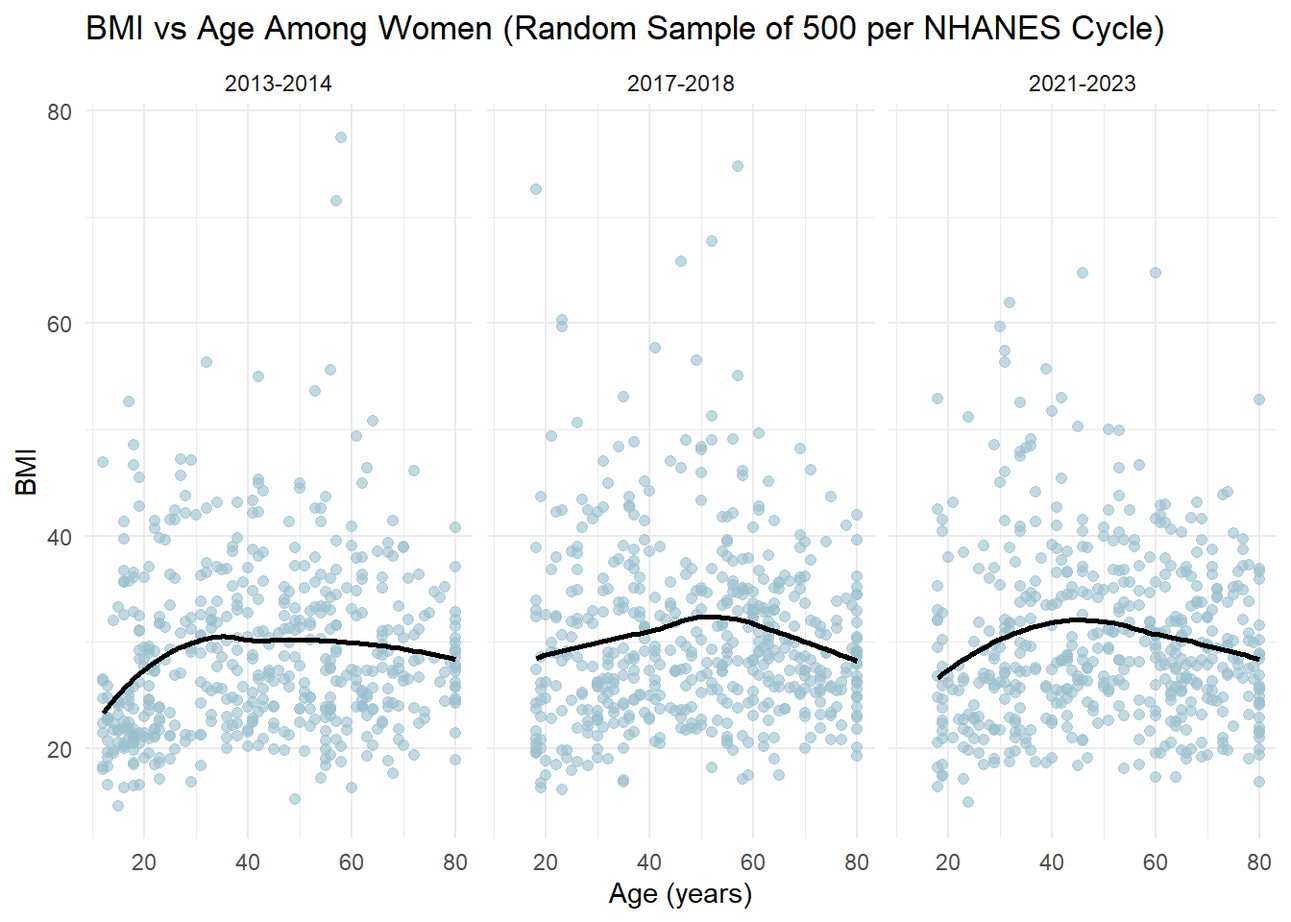
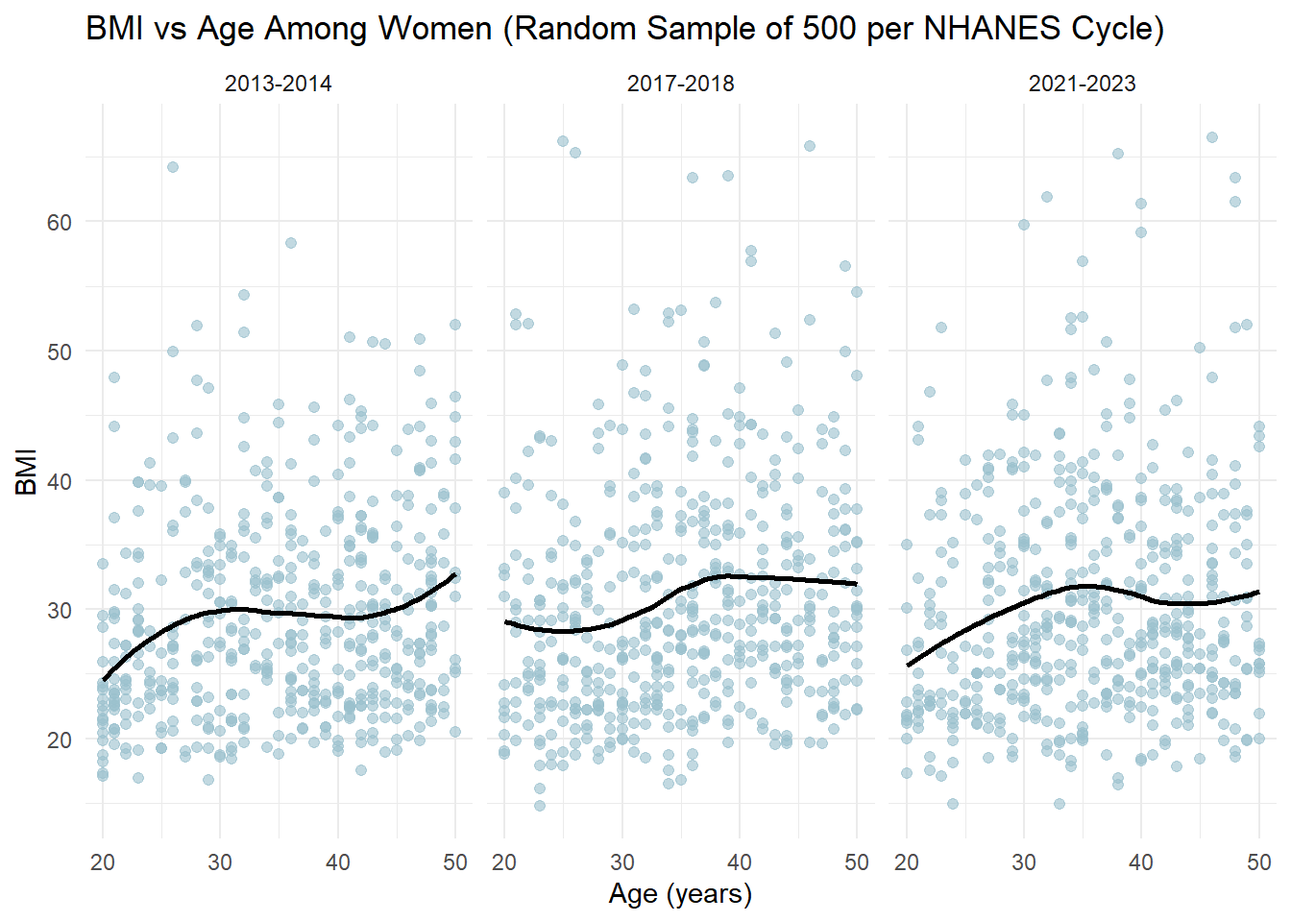
writeup

diff --git a/docs/results.html b/docs/results.html
@@ -213,7 +213,7 @@ pre > code.sourceCode > span > a:first-child::before { text-decoration: underlin
 <span id="cb1-9"><a href="#cb1-9" aria-hidden="true" tabindex="-1"></a>women_brf <span class="ot">&lt;-</span> <span class="fu">read.csv</span>(<span class="st">"women_brf.csv"</span>)</span></code><button title="Copy to Clipboard" class="code-copy-button"><i class="bi"></i></button></pre></div>
 </details>
 </div>
-<p>I started with some more general graphs to get a sense for the distribution of BMI and age groups of the NHANES survey respondents.</p>
+<p>I started with some more general graphs to get a sense for the distribution of BMI and age groups of the NHANES survey respondents. I was very surprised by the wide range of respondents. I didn’t grasp at first the breadth of the survey. I thought this survey was more to guage the adult population but seeing they even conducted portions with infants also helps explain why there is so much missing data, because many questions won’t be applicable to certain portions of the population included.</p>
 <div class="cell">
 <details class="code-fold">
 <summary>Code</summary>
@@ -261,17 +261,25 @@ pre > code.sourceCode > span > a:first-child::before { text-decoration: underlin
 </div>
 </div>
 </div>
+<p>After seeing the age distribution and knowing that I wanted to focus my trend analysis on the adult women respondents, I filtered my data for ages 20-50 and plotted the distribution for BMI from there. BMI has slightly increased over the three survey cycles, which I didn’t find completely surprising but it also didn’t quite line up with what I would have expected given the trends I saw in my later analysis.</p>
 <div class="cell">
 <details class="code-fold">
 <summary>Code</summary>
-<div class="sourceCode cell-code" id="cb4"><pre class="sourceCode r code-with-copy"><code class="sourceCode r"><span id="cb4-1"><a href="#cb4-1" aria-hidden="true" tabindex="-1"></a><span class="fu">ggplot</span>(nhanes_women, <span class="fu">aes</span>(<span class="at">x =</span> bmi, <span class="at">fill =</span> cycle)) <span class="sc">+</span></span>
-<span id="cb4-2"><a href="#cb4-2" aria-hidden="true" tabindex="-1"></a>  <span class="fu">geom_density</span>(<span class="at">alpha =</span> <span class="fl">0.4</span>) <span class="sc">+</span></span>
-<span id="cb4-3"><a href="#cb4-3" aria-hidden="true" tabindex="-1"></a>  <span class="fu">labs</span>(</span>
-<span id="cb4-4"><a href="#cb4-4" aria-hidden="true" tabindex="-1"></a>    <span class="at">title =</span> <span class="st">"BMI Distribution of Women by NHANES Cycle"</span>,</span>
-<span id="cb4-5"><a href="#cb4-5" aria-hidden="true" tabindex="-1"></a>    <span class="at">x =</span> <span class="st">"BMI"</span>,</span>
-<span id="cb4-6"><a href="#cb4-6" aria-hidden="true" tabindex="-1"></a>    <span class="at">y =</span> <span class="st">"Density"</span></span>
-<span id="cb4-7"><a href="#cb4-7" aria-hidden="true" tabindex="-1"></a>  ) <span class="sc">+</span></span>
-<span id="cb4-8"><a href="#cb4-8" aria-hidden="true" tabindex="-1"></a>  <span class="fu">theme_minimal</span>(<span class="at">base_size =</span> <span class="dv">13</span>)</span></code><button title="Copy to Clipboard" class="code-copy-button"><i class="bi"></i></button></pre></div>
+<div class="sourceCode cell-code" id="cb4"><pre class="sourceCode r code-with-copy"><code class="sourceCode r"><span id="cb4-1"><a href="#cb4-1" aria-hidden="true" tabindex="-1"></a>nhanes_adultw <span class="ot">&lt;-</span> nhanes_women <span class="sc">|&gt;</span></span>
+<span id="cb4-2"><a href="#cb4-2" aria-hidden="true" tabindex="-1"></a>  <span class="fu">filter</span>(</span>
+<span id="cb4-3"><a href="#cb4-3" aria-hidden="true" tabindex="-1"></a>    age <span class="sc">&gt;=</span> <span class="dv">20</span>,</span>
+<span id="cb4-4"><a href="#cb4-4" aria-hidden="true" tabindex="-1"></a>    age <span class="sc">&lt;=</span> <span class="dv">50</span></span>
+<span id="cb4-5"><a href="#cb4-5" aria-hidden="true" tabindex="-1"></a>    )</span>
+<span id="cb4-6"><a href="#cb4-6" aria-hidden="true" tabindex="-1"></a></span>
+<span id="cb4-7"><a href="#cb4-7" aria-hidden="true" tabindex="-1"></a></span>
+<span id="cb4-8"><a href="#cb4-8" aria-hidden="true" tabindex="-1"></a><span class="fu">ggplot</span>(nhanes_adultw, <span class="fu">aes</span>(<span class="at">x =</span> bmi, <span class="at">fill =</span> cycle)) <span class="sc">+</span></span>
+<span id="cb4-9"><a href="#cb4-9" aria-hidden="true" tabindex="-1"></a>  <span class="fu">geom_density</span>(<span class="at">alpha =</span> <span class="fl">0.4</span>) <span class="sc">+</span></span>
+<span id="cb4-10"><a href="#cb4-10" aria-hidden="true" tabindex="-1"></a>  <span class="fu">labs</span>(</span>
+<span id="cb4-11"><a href="#cb4-11" aria-hidden="true" tabindex="-1"></a>    <span class="at">title =</span> <span class="st">"BMI Distribution of Women by NHANES Cycle"</span>,</span>
+<span id="cb4-12"><a href="#cb4-12" aria-hidden="true" tabindex="-1"></a>    <span class="at">x =</span> <span class="st">"BMI"</span>,</span>
+<span id="cb4-13"><a href="#cb4-13" aria-hidden="true" tabindex="-1"></a>    <span class="at">y =</span> <span class="st">"Density"</span></span>
+<span id="cb4-14"><a href="#cb4-14" aria-hidden="true" tabindex="-1"></a>  ) <span class="sc">+</span></span>
+<span id="cb4-15"><a href="#cb4-15" aria-hidden="true" tabindex="-1"></a>  <span class="fu">theme_minimal</span>(<span class="at">base_size =</span> <span class="dv">13</span>)</span></code><button title="Copy to Clipboard" class="code-copy-button"><i class="bi"></i></button></pre></div>
 </details>
 <div class="cell-output-display">
 <div>
@@ -281,23 +289,40 @@ pre > code.sourceCode > span > a:first-child::before { text-decoration: underlin
 </div>
 </div>
 </div>
+<p>However, when we break out BMI by age group, we actually see that it stays relatively stable across each group. But as women age we see slightly higher BMI and more variability in respondents.</p>
 <div class="cell">
 <details class="code-fold">
 <summary>Code</summary>
-<div class="sourceCode cell-code" id="cb5"><pre class="sourceCode r code-with-copy"><code class="sourceCode r"><span id="cb5-1"><a href="#cb5-1" aria-hidden="true" tabindex="-1"></a><span class="fu">ggplot</span>(nhanes_women, <span class="fu">aes</span>(<span class="at">x =</span> bmi)) <span class="sc">+</span></span>
-<span id="cb5-2"><a href="#cb5-2" aria-hidden="true" tabindex="-1"></a>  <span class="fu">geom_histogram</span>(</span>
-<span id="cb5-3"><a href="#cb5-3" aria-hidden="true" tabindex="-1"></a>    <span class="at">color    =</span> <span class="st">"blue"</span>,</span>
-<span id="cb5-4"><a href="#cb5-4" aria-hidden="true" tabindex="-1"></a>    <span class="at">fill     =</span> <span class="st">"lightblue"</span>,</span>
-<span id="cb5-5"><a href="#cb5-5" aria-hidden="true" tabindex="-1"></a>    <span class="at">binwidth =</span> <span class="dv">2</span>,</span>
-<span id="cb5-6"><a href="#cb5-6" aria-hidden="true" tabindex="-1"></a>    <span class="at">boundary =</span> <span class="dv">0</span></span>
-<span id="cb5-7"><a href="#cb5-7" aria-hidden="true" tabindex="-1"></a>  ) <span class="sc">+</span></span>
-<span id="cb5-8"><a href="#cb5-8" aria-hidden="true" tabindex="-1"></a>  <span class="fu">facet_wrap</span>(<span class="sc">~</span> cycle, <span class="at">ncol =</span> <span class="dv">1</span>) <span class="sc">+</span></span>
-<span id="cb5-9"><a href="#cb5-9" aria-hidden="true" tabindex="-1"></a>  <span class="fu">labs</span>(</span>
-<span id="cb5-10"><a href="#cb5-10" aria-hidden="true" tabindex="-1"></a>    <span class="at">title =</span> <span class="st">"BMI Histogram by NHANES Cycle (Women Only)"</span>,</span>
-<span id="cb5-11"><a href="#cb5-11" aria-hidden="true" tabindex="-1"></a>    <span class="at">x     =</span> <span class="st">"BMI"</span>,</span>
-<span id="cb5-12"><a href="#cb5-12" aria-hidden="true" tabindex="-1"></a>    <span class="at">y     =</span> <span class="st">"Count"</span></span>
-<span id="cb5-13"><a href="#cb5-13" aria-hidden="true" tabindex="-1"></a>  ) <span class="sc">+</span></span>
-<span id="cb5-14"><a href="#cb5-14" aria-hidden="true" tabindex="-1"></a>  <span class="fu">theme_minimal</span>(<span class="at">base_size =</span> <span class="dv">13</span>)</span></code><button title="Copy to Clipboard" class="code-copy-button"><i class="bi"></i></button></pre></div>
+<div class="sourceCode cell-code" id="cb5"><pre class="sourceCode r code-with-copy"><code class="sourceCode r"><span id="cb5-1"><a href="#cb5-1" aria-hidden="true" tabindex="-1"></a>nhanes_agegroups <span class="ot">&lt;-</span> nhanes_adultw <span class="sc">|&gt;</span></span>
+<span id="cb5-2"><a href="#cb5-2" aria-hidden="true" tabindex="-1"></a>  <span class="fu">filter</span>(</span>
+<span id="cb5-3"><a href="#cb5-3" aria-hidden="true" tabindex="-1"></a>    <span class="sc">!</span><span class="fu">is.na</span>(age),</span>
+<span id="cb5-4"><a href="#cb5-4" aria-hidden="true" tabindex="-1"></a>    age <span class="sc">&gt;=</span> <span class="dv">20</span>, age <span class="sc">&lt;=</span> <span class="dv">50</span>,</span>
+<span id="cb5-5"><a href="#cb5-5" aria-hidden="true" tabindex="-1"></a>    <span class="sc">!</span><span class="fu">is.na</span>(sedentary_min_day),</span>
+<span id="cb5-6"><a href="#cb5-6" aria-hidden="true" tabindex="-1"></a>    <span class="sc">!</span><span class="fu">is.na</span>(bmi)</span>
+<span id="cb5-7"><a href="#cb5-7" aria-hidden="true" tabindex="-1"></a>  ) <span class="sc">|&gt;</span></span>
+<span id="cb5-8"><a href="#cb5-8" aria-hidden="true" tabindex="-1"></a>  <span class="fu">mutate</span>(</span>
+<span id="cb5-9"><a href="#cb5-9" aria-hidden="true" tabindex="-1"></a>    <span class="at">age_group =</span> <span class="fu">case_when</span>(</span>
+<span id="cb5-10"><a href="#cb5-10" aria-hidden="true" tabindex="-1"></a>      age <span class="sc">&lt;=</span> <span class="dv">30</span> <span class="sc">~</span> <span class="st">"20–30"</span>,</span>
+<span id="cb5-11"><a href="#cb5-11" aria-hidden="true" tabindex="-1"></a>      age <span class="sc">&lt;=</span> <span class="dv">40</span> <span class="sc">~</span> <span class="st">"31–40"</span>,</span>
+<span id="cb5-12"><a href="#cb5-12" aria-hidden="true" tabindex="-1"></a>      <span class="cn">TRUE</span>      <span class="sc">~</span> <span class="st">"41–50"</span>      </span>
+<span id="cb5-13"><a href="#cb5-13" aria-hidden="true" tabindex="-1"></a>    )</span>
+<span id="cb5-14"><a href="#cb5-14" aria-hidden="true" tabindex="-1"></a>  )</span>
+<span id="cb5-15"><a href="#cb5-15" aria-hidden="true" tabindex="-1"></a></span>
+<span id="cb5-16"><a href="#cb5-16" aria-hidden="true" tabindex="-1"></a></span>
+<span id="cb5-17"><a href="#cb5-17" aria-hidden="true" tabindex="-1"></a><span class="fu">ggplot</span>(nhanes_agegroups, <span class="fu">aes</span>(<span class="at">x =</span> age_group, <span class="at">y =</span> bmi)) <span class="sc">+</span></span>
+<span id="cb5-18"><a href="#cb5-18" aria-hidden="true" tabindex="-1"></a>  <span class="fu">geom_boxplot</span>(<span class="at">fill =</span> <span class="st">"#d3e5ff"</span>, <span class="at">alpha =</span> <span class="fl">0.8</span>, <span class="at">outlier.alpha =</span> <span class="fl">0.5</span>) <span class="sc">+</span></span>
+<span id="cb5-19"><a href="#cb5-19" aria-hidden="true" tabindex="-1"></a>  <span class="fu">facet_wrap</span>(<span class="sc">~</span> cycle) <span class="sc">+</span></span>
+<span id="cb5-20"><a href="#cb5-20" aria-hidden="true" tabindex="-1"></a>  <span class="fu">labs</span>(</span>
+<span id="cb5-21"><a href="#cb5-21" aria-hidden="true" tabindex="-1"></a>    <span class="at">x =</span> <span class="st">"Age Group"</span>,</span>
+<span id="cb5-22"><a href="#cb5-22" aria-hidden="true" tabindex="-1"></a>    <span class="at">y =</span> <span class="st">"BMI"</span>,</span>
+<span id="cb5-23"><a href="#cb5-23" aria-hidden="true" tabindex="-1"></a>    <span class="at">title =</span> <span class="st">"BMI Across Age Groups and NHANES Cycles (Women)"</span></span>
+<span id="cb5-24"><a href="#cb5-24" aria-hidden="true" tabindex="-1"></a>  ) <span class="sc">+</span></span>
+<span id="cb5-25"><a href="#cb5-25" aria-hidden="true" tabindex="-1"></a>  <span class="fu">theme_minimal</span>() <span class="sc">+</span></span>
+<span id="cb5-26"><a href="#cb5-26" aria-hidden="true" tabindex="-1"></a>  <span class="fu">theme</span>(</span>
+<span id="cb5-27"><a href="#cb5-27" aria-hidden="true" tabindex="-1"></a>    <span class="at">plot.title  =</span> <span class="fu">element_text</span>(<span class="at">size =</span> <span class="dv">14</span>, <span class="at">face =</span> <span class="st">"bold"</span>),</span>
+<span id="cb5-28"><a href="#cb5-28" aria-hidden="true" tabindex="-1"></a>    <span class="at">axis.text   =</span> <span class="fu">element_text</span>(<span class="at">size =</span> <span class="dv">11</span>),</span>
+<span id="cb5-29"><a href="#cb5-29" aria-hidden="true" tabindex="-1"></a>    <span class="at">strip.text  =</span> <span class="fu">element_text</span>(<span class="at">size =</span> <span class="dv">11</span>, <span class="at">face =</span> <span class="st">"bold"</span>)</span>
+<span id="cb5-30"><a href="#cb5-30" aria-hidden="true" tabindex="-1"></a>  )</span></code><button title="Copy to Clipboard" class="code-copy-button"><i class="bi"></i></button></pre></div>
 </details>
 <div class="cell-output-display">
 <div>
@@ -307,32 +332,29 @@ pre > code.sourceCode > span > a:first-child::before { text-decoration: underlin
 </div>
 </div>
 </div>
-<p>I then wanted to see if there was any visual relationship between BMI and the age of respondents. Since there were a large number of data points, I selected a sample of 500 to keep the visual clean while still visually seeing the trend, if any. I also added a loess smoother on top of the graph to aid the visualization.</p>
+<p>I wanted to see what this relationship looked like if I expanded the age group back to the original group of respondents. Since there were a large number of data points, I selected a sample of 500 to keep the visual clean while still visually seeing the trend. I also added a loess smoother on top of the graph to aid the visualization. Not surprisingly, we see bmi increase through childhood to adulthood, a slight uptick from 30-50 as seen in the boxplots, then bmi drops off again as women pass the age of 60.</p>
 <div class="cell">
 <details class="code-fold">
 <summary>Code</summary>
 <div class="sourceCode cell-code" id="cb6"><pre class="sourceCode r code-with-copy"><code class="sourceCode r"><span id="cb6-1"><a href="#cb6-1" aria-hidden="true" tabindex="-1"></a><span class="fu">set.seed</span>(<span class="dv">123</span>)  <span class="co"># for reproducibility</span></span>
 <span id="cb6-2"><a href="#cb6-2" aria-hidden="true" tabindex="-1"></a></span>
-<span id="cb6-3"><a href="#cb6-3" aria-hidden="true" tabindex="-1"></a>nhanes_women <span class="ot">&lt;-</span> <span class="fu">read.csv</span>(<span class="st">"nhanes_women.csv"</span>)</span>
-<span id="cb6-4"><a href="#cb6-4" aria-hidden="true" tabindex="-1"></a></span>
-<span id="cb6-5"><a href="#cb6-5" aria-hidden="true" tabindex="-1"></a><span class="co"># Clean + sample 100 points per cycle</span></span>
-<span id="cb6-6"><a href="#cb6-6" aria-hidden="true" tabindex="-1"></a>nhanes_sampled <span class="ot">&lt;-</span> nhanes_women <span class="sc">|&gt;</span></span>
-<span id="cb6-7"><a href="#cb6-7" aria-hidden="true" tabindex="-1"></a>  <span class="fu">filter</span>(<span class="sc">!</span><span class="fu">is.na</span>(age), <span class="sc">!</span><span class="fu">is.na</span>(bmi),<span class="sc">!</span><span class="fu">is.na</span>(sedentary_min_day), age <span class="sc">&gt;</span> <span class="dv">0</span>) <span class="sc">|&gt;</span></span>
-<span id="cb6-8"><a href="#cb6-8" aria-hidden="true" tabindex="-1"></a>  <span class="fu">group_by</span>(cycle) <span class="sc">|&gt;</span></span>
-<span id="cb6-9"><a href="#cb6-9" aria-hidden="true" tabindex="-1"></a>  <span class="fu">slice_sample</span>(<span class="at">n =</span> <span class="dv">500</span>) <span class="sc">|&gt;</span>   </span>
-<span id="cb6-10"><a href="#cb6-10" aria-hidden="true" tabindex="-1"></a>  <span class="fu">ungroup</span>()</span>
-<span id="cb6-11"><a href="#cb6-11" aria-hidden="true" tabindex="-1"></a></span>
-<span id="cb6-12"><a href="#cb6-12" aria-hidden="true" tabindex="-1"></a><span class="co"># Plot: BMI vs Age, faceted by cycle</span></span>
-<span id="cb6-13"><a href="#cb6-13" aria-hidden="true" tabindex="-1"></a><span class="fu">ggplot</span>(nhanes_sampled, <span class="fu">aes</span>(<span class="at">x =</span> age, <span class="at">y =</span> bmi)) <span class="sc">+</span></span>
-<span id="cb6-14"><a href="#cb6-14" aria-hidden="true" tabindex="-1"></a>  <span class="fu">geom_point</span>(<span class="at">alpha =</span> <span class="fl">0.6</span>, <span class="at">size =</span> <span class="fl">1.8</span>, <span class="at">color =</span> <span class="st">"lightblue3"</span>) <span class="sc">+</span></span>
-<span id="cb6-15"><a href="#cb6-15" aria-hidden="true" tabindex="-1"></a>  <span class="fu">geom_smooth</span>(<span class="at">se =</span> <span class="cn">FALSE</span>, <span class="at">method =</span> <span class="st">"loess"</span>, <span class="at">color =</span> <span class="st">"black"</span>) <span class="sc">+</span></span>
-<span id="cb6-16"><a href="#cb6-16" aria-hidden="true" tabindex="-1"></a>  <span class="fu">facet_wrap</span>(<span class="sc">~</span> cycle) <span class="sc">+</span></span>
-<span id="cb6-17"><a href="#cb6-17" aria-hidden="true" tabindex="-1"></a>  <span class="fu">labs</span>(</span>
-<span id="cb6-18"><a href="#cb6-18" aria-hidden="true" tabindex="-1"></a>    <span class="at">x =</span> <span class="st">"Age (years)"</span>,</span>
-<span id="cb6-19"><a href="#cb6-19" aria-hidden="true" tabindex="-1"></a>    <span class="at">y =</span> <span class="st">"BMI"</span>,</span>
-<span id="cb6-20"><a href="#cb6-20" aria-hidden="true" tabindex="-1"></a>    <span class="at">title =</span> <span class="st">"BMI vs Age Among Women (Random Sample of 500 per NHANES Cycle)"</span></span>
-<span id="cb6-21"><a href="#cb6-21" aria-hidden="true" tabindex="-1"></a>  ) <span class="sc">+</span></span>
-<span id="cb6-22"><a href="#cb6-22" aria-hidden="true" tabindex="-1"></a>  <span class="fu">theme_minimal</span>()</span></code><button title="Copy to Clipboard" class="code-copy-button"><i class="bi"></i></button></pre></div>
+<span id="cb6-3"><a href="#cb6-3" aria-hidden="true" tabindex="-1"></a><span class="co"># Clean + sample 100 points per cycle</span></span>
+<span id="cb6-4"><a href="#cb6-4" aria-hidden="true" tabindex="-1"></a>nhanes_sampled <span class="ot">&lt;-</span> nhanes_agegroups <span class="sc">|&gt;</span></span>
+<span id="cb6-5"><a href="#cb6-5" aria-hidden="true" tabindex="-1"></a>  <span class="fu">group_by</span>(cycle) <span class="sc">|&gt;</span></span>
+<span id="cb6-6"><a href="#cb6-6" aria-hidden="true" tabindex="-1"></a>  <span class="fu">slice_sample</span>(<span class="at">n =</span> <span class="dv">500</span>) <span class="sc">|&gt;</span>   </span>
+<span id="cb6-7"><a href="#cb6-7" aria-hidden="true" tabindex="-1"></a>  <span class="fu">ungroup</span>()</span>
+<span id="cb6-8"><a href="#cb6-8" aria-hidden="true" tabindex="-1"></a></span>
+<span id="cb6-9"><a href="#cb6-9" aria-hidden="true" tabindex="-1"></a><span class="co"># Plot: BMI vs Age, faceted by cycle</span></span>
+<span id="cb6-10"><a href="#cb6-10" aria-hidden="true" tabindex="-1"></a><span class="fu">ggplot</span>(nhanes_sampled, <span class="fu">aes</span>(<span class="at">x =</span> age, <span class="at">y =</span> bmi)) <span class="sc">+</span></span>
+<span id="cb6-11"><a href="#cb6-11" aria-hidden="true" tabindex="-1"></a>  <span class="fu">geom_point</span>(<span class="at">alpha =</span> <span class="fl">0.6</span>, <span class="at">size =</span> <span class="fl">1.8</span>, <span class="at">color =</span> <span class="st">"lightblue3"</span>) <span class="sc">+</span></span>
+<span id="cb6-12"><a href="#cb6-12" aria-hidden="true" tabindex="-1"></a>  <span class="fu">geom_smooth</span>(<span class="at">se =</span> <span class="cn">FALSE</span>, <span class="at">method =</span> <span class="st">"loess"</span>, <span class="at">color =</span> <span class="st">"black"</span>) <span class="sc">+</span></span>
+<span id="cb6-13"><a href="#cb6-13" aria-hidden="true" tabindex="-1"></a>  <span class="fu">facet_wrap</span>(<span class="sc">~</span> cycle) <span class="sc">+</span></span>
+<span id="cb6-14"><a href="#cb6-14" aria-hidden="true" tabindex="-1"></a>  <span class="fu">labs</span>(</span>
+<span id="cb6-15"><a href="#cb6-15" aria-hidden="true" tabindex="-1"></a>    <span class="at">x =</span> <span class="st">"Age (years)"</span>,</span>
+<span id="cb6-16"><a href="#cb6-16" aria-hidden="true" tabindex="-1"></a>    <span class="at">y =</span> <span class="st">"BMI"</span>,</span>
+<span id="cb6-17"><a href="#cb6-17" aria-hidden="true" tabindex="-1"></a>    <span class="at">title =</span> <span class="st">"BMI vs Age Among Women (Random Sample of 500 per NHANES Cycle)"</span></span>
+<span id="cb6-18"><a href="#cb6-18" aria-hidden="true" tabindex="-1"></a>  ) <span class="sc">+</span></span>
+<span id="cb6-19"><a href="#cb6-19" aria-hidden="true" tabindex="-1"></a>  <span class="fu">theme_minimal</span>()</span></code><button title="Copy to Clipboard" class="code-copy-button"><i class="bi"></i></button></pre></div>
 </details>
 <div class="cell-output-display">
 <div>
@@ -363,7 +385,7 @@ pre > code.sourceCode > span > a:first-child::before { text-decoration: underlin
 <div class="cell">
 <details class="code-fold">
 <summary>Code</summary>
-<div class="sourceCode cell-code" id="cb8"><pre class="sourceCode r code-with-copy"><code class="sourceCode r"><span id="cb8-1"><a href="#cb8-1" aria-hidden="true" tabindex="-1"></a><span class="fu">ggplot</span>(nhanes_women,</span>
+<div class="sourceCode cell-code" id="cb8"><pre class="sourceCode r code-with-copy"><code class="sourceCode r"><span id="cb8-1"><a href="#cb8-1" aria-hidden="true" tabindex="-1"></a><span class="fu">ggplot</span>(nhanes_agegroups,</span>
 <span id="cb8-2"><a href="#cb8-2" aria-hidden="true" tabindex="-1"></a>       <span class="fu">aes</span>(<span class="at">x =</span> sedentary_min_day,</span>
 <span id="cb8-3"><a href="#cb8-3" aria-hidden="true" tabindex="-1"></a>           <span class="at">y =</span> bmi)) <span class="sc">+</span></span>
 <span id="cb8-4"><a href="#cb8-4" aria-hidden="true" tabindex="-1"></a>  <span class="fu">geom_bin2d</span>() <span class="sc">+</span></span>
@@ -388,30 +410,20 @@ pre > code.sourceCode > span > a:first-child::before { text-decoration: underlin
 <div class="cell">
 <details class="code-fold">
 <summary>Code</summary>
-<div class="sourceCode cell-code" id="cb9"><pre class="sourceCode r code-with-copy"><code class="sourceCode r"><span id="cb9-1"><a href="#cb9-1" aria-hidden="true" tabindex="-1"></a>nhanes_clean <span class="ot">&lt;-</span> nhanes_women <span class="sc">|&gt;</span></span>
-<span id="cb9-2"><a href="#cb9-2" aria-hidden="true" tabindex="-1"></a>  <span class="fu">filter</span>(<span class="sc">!</span><span class="fu">is.na</span>(age), <span class="sc">!</span><span class="fu">is.na</span>(sedentary_min_day), age <span class="sc">&gt;</span> <span class="dv">0</span>) <span class="sc">|&gt;</span></span>
-<span id="cb9-3"><a href="#cb9-3" aria-hidden="true" tabindex="-1"></a>  <span class="fu">mutate</span>(</span>
-<span id="cb9-4"><a href="#cb9-4" aria-hidden="true" tabindex="-1"></a>    <span class="at">age_group =</span> <span class="fu">case_when</span>(</span>
-<span id="cb9-5"><a href="#cb9-5" aria-hidden="true" tabindex="-1"></a>      age <span class="sc">&lt;</span> <span class="dv">20</span> <span class="sc">~</span> <span class="st">"0–19"</span>,</span>
-<span id="cb9-6"><a href="#cb9-6" aria-hidden="true" tabindex="-1"></a>      age <span class="sc">&lt;</span> <span class="dv">40</span> <span class="sc">~</span> <span class="st">"20–39"</span>,</span>
-<span id="cb9-7"><a href="#cb9-7" aria-hidden="true" tabindex="-1"></a>      age <span class="sc">&lt;</span> <span class="dv">60</span> <span class="sc">~</span> <span class="st">"40–59"</span>,</span>
-<span id="cb9-8"><a href="#cb9-8" aria-hidden="true" tabindex="-1"></a>      <span class="cn">TRUE</span>     <span class="sc">~</span> <span class="st">"60+"</span></span>
-<span id="cb9-9"><a href="#cb9-9" aria-hidden="true" tabindex="-1"></a>    )</span>
-<span id="cb9-10"><a href="#cb9-10" aria-hidden="true" tabindex="-1"></a>  )</span>
-<span id="cb9-11"><a href="#cb9-11" aria-hidden="true" tabindex="-1"></a></span>
-<span id="cb9-12"><a href="#cb9-12" aria-hidden="true" tabindex="-1"></a><span class="co"># Boxplot of sedentary minutes by age group</span></span>
-<span id="cb9-13"><a href="#cb9-13" aria-hidden="true" tabindex="-1"></a><span class="fu">ggplot</span>(nhanes_clean, <span class="fu">aes</span>(<span class="at">x =</span> age_group, <span class="at">y =</span> sedentary_min_day)) <span class="sc">+</span></span>
-<span id="cb9-14"><a href="#cb9-14" aria-hidden="true" tabindex="-1"></a>  <span class="fu">geom_boxplot</span>(<span class="at">fill =</span> <span class="st">"#d3e5ff"</span>, <span class="at">alpha =</span> <span class="fl">0.8</span>, <span class="at">outlier.alpha =</span> <span class="fl">0.5</span>) <span class="sc">+</span></span>
-<span id="cb9-15"><a href="#cb9-15" aria-hidden="true" tabindex="-1"></a>  <span class="fu">labs</span>(</span>
-<span id="cb9-16"><a href="#cb9-16" aria-hidden="true" tabindex="-1"></a>    <span class="at">x =</span> <span class="st">"Age Group"</span>,</span>
-<span id="cb9-17"><a href="#cb9-17" aria-hidden="true" tabindex="-1"></a>    <span class="at">y =</span> <span class="st">"Sedentary Minutes per Day"</span>,</span>
-<span id="cb9-18"><a href="#cb9-18" aria-hidden="true" tabindex="-1"></a>    <span class="at">title =</span> <span class="st">"Sedentary Behavior Across Age Groups in Women (NHANES)"</span></span>
-<span id="cb9-19"><a href="#cb9-19" aria-hidden="true" tabindex="-1"></a>  ) <span class="sc">+</span></span>
-<span id="cb9-20"><a href="#cb9-20" aria-hidden="true" tabindex="-1"></a>  <span class="fu">theme_minimal</span>() <span class="sc">+</span></span>
-<span id="cb9-21"><a href="#cb9-21" aria-hidden="true" tabindex="-1"></a>  <span class="fu">theme</span>(</span>
-<span id="cb9-22"><a href="#cb9-22" aria-hidden="true" tabindex="-1"></a>    <span class="at">plot.title =</span> <span class="fu">element_text</span>(<span class="at">size =</span> <span class="dv">14</span>, <span class="at">face =</span> <span class="st">"bold"</span>),</span>
-<span id="cb9-23"><a href="#cb9-23" aria-hidden="true" tabindex="-1"></a>    <span class="at">axis.text =</span> <span class="fu">element_text</span>(<span class="at">size =</span> <span class="dv">11</span>)</span>
-<span id="cb9-24"><a href="#cb9-24" aria-hidden="true" tabindex="-1"></a>  )</span></code><button title="Copy to Clipboard" class="code-copy-button"><i class="bi"></i></button></pre></div>
+<div class="sourceCode cell-code" id="cb9"><pre class="sourceCode r code-with-copy"><code class="sourceCode r"><span id="cb9-1"><a href="#cb9-1" aria-hidden="true" tabindex="-1"></a><span class="co"># Boxplot of sedentary minutes by age group</span></span>
+<span id="cb9-2"><a href="#cb9-2" aria-hidden="true" tabindex="-1"></a><span class="fu">ggplot</span>(nhanes_agegroups, <span class="fu">aes</span>(<span class="at">x =</span> age_group, <span class="at">y =</span> sedentary_min_day)) <span class="sc">+</span></span>
+<span id="cb9-3"><a href="#cb9-3" aria-hidden="true" tabindex="-1"></a>  <span class="fu">geom_boxplot</span>(<span class="at">fill =</span> <span class="st">"#d3e5ff"</span>, <span class="at">alpha =</span> <span class="fl">0.8</span>, <span class="at">outlier.alpha =</span> <span class="fl">0.5</span>) <span class="sc">+</span></span>
+<span id="cb9-4"><a href="#cb9-4" aria-hidden="true" tabindex="-1"></a>  <span class="fu">labs</span>(</span>
+<span id="cb9-5"><a href="#cb9-5" aria-hidden="true" tabindex="-1"></a>    <span class="at">x =</span> <span class="st">"Age Group"</span>,</span>
+<span id="cb9-6"><a href="#cb9-6" aria-hidden="true" tabindex="-1"></a>    <span class="at">y =</span> <span class="st">"Sedentary Minutes per Day"</span>,</span>
+<span id="cb9-7"><a href="#cb9-7" aria-hidden="true" tabindex="-1"></a>    <span class="at">title =</span> <span class="st">"Sedentary Behavior Across Age Groups in Women (NHANES)"</span></span>
+<span id="cb9-8"><a href="#cb9-8" aria-hidden="true" tabindex="-1"></a>  ) <span class="sc">+</span></span>
+<span id="cb9-9"><a href="#cb9-9" aria-hidden="true" tabindex="-1"></a>  <span class="fu">facet_wrap</span>(<span class="sc">~</span> cycle) <span class="sc">+</span></span>
+<span id="cb9-10"><a href="#cb9-10" aria-hidden="true" tabindex="-1"></a>  <span class="fu">theme_minimal</span>() <span class="sc">+</span></span>
+<span id="cb9-11"><a href="#cb9-11" aria-hidden="true" tabindex="-1"></a>  <span class="fu">theme</span>(</span>
+<span id="cb9-12"><a href="#cb9-12" aria-hidden="true" tabindex="-1"></a>    <span class="at">plot.title =</span> <span class="fu">element_text</span>(<span class="at">size =</span> <span class="dv">14</span>, <span class="at">face =</span> <span class="st">"bold"</span>),</span>
+<span id="cb9-13"><a href="#cb9-13" aria-hidden="true" tabindex="-1"></a>    <span class="at">axis.text =</span> <span class="fu">element_text</span>(<span class="at">size =</span> <span class="dv">11</span>)</span>
+<span id="cb9-14"><a href="#cb9-14" aria-hidden="true" tabindex="-1"></a>  )</span></code><button title="Copy to Clipboard" class="code-copy-button"><i class="bi"></i></button></pre></div>
 </details>
 <div class="cell-output-display">
 <div>
@@ -449,7 +461,7 @@ pre > code.sourceCode > span > a:first-child::before { text-decoration: underlin
 <details class="code-fold">
 <summary>Code</summary>
 <div class="sourceCode cell-code" id="cb11"><pre class="sourceCode r code-with-copy"><code class="sourceCode r"><span id="cb11-1"><a href="#cb11-1" aria-hidden="true" tabindex="-1"></a><span class="co"># Clean + recode infertility response</span></span>
-<span id="cb11-2"><a href="#cb11-2" aria-hidden="true" tabindex="-1"></a>nhanes_clean <span class="ot">&lt;-</span> nhanes_women <span class="sc">|&gt;</span></span>
+<span id="cb11-2"><a href="#cb11-2" aria-hidden="true" tabindex="-1"></a>nhanes_fertility <span class="ot">&lt;-</span> nhanes_women <span class="sc">|&gt;</span></span>
 <span id="cb11-3"><a href="#cb11-3" aria-hidden="true" tabindex="-1"></a>  <span class="fu">filter</span>(</span>
 <span id="cb11-4"><a href="#cb11-4" aria-hidden="true" tabindex="-1"></a>    <span class="sc">!</span><span class="fu">is.na</span>(infertility_12mo),</span>
 <span id="cb11-5"><a href="#cb11-5" aria-hidden="true" tabindex="-1"></a>    age <span class="sc">&gt;=</span> <span class="dv">20</span>,</span>
@@ -465,7 +477,7 @@ pre > code.sourceCode > span > a:first-child::before { text-decoration: underlin
 <span id="cb11-15"><a href="#cb11-15" aria-hidden="true" tabindex="-1"></a>  <span class="fu">filter</span>(<span class="sc">!</span><span class="fu">is.na</span>(infert_status))</span>
 <span id="cb11-16"><a href="#cb11-16" aria-hidden="true" tabindex="-1"></a></span>
 <span id="cb11-17"><a href="#cb11-17" aria-hidden="true" tabindex="-1"></a><span class="co"># Faceted bar plot</span></span>
-<span id="cb11-18"><a href="#cb11-18" aria-hidden="true" tabindex="-1"></a><span class="fu">ggplot</span>(nhanes_clean, <span class="fu">aes</span>(<span class="at">x =</span> infert_status, <span class="at">fill =</span> infert_status)) <span class="sc">+</span></span>
+<span id="cb11-18"><a href="#cb11-18" aria-hidden="true" tabindex="-1"></a><span class="fu">ggplot</span>(nhanes_fertility, <span class="fu">aes</span>(<span class="at">x =</span> infert_status, <span class="at">fill =</span> infert_status)) <span class="sc">+</span></span>
 <span id="cb11-19"><a href="#cb11-19" aria-hidden="true" tabindex="-1"></a>  <span class="fu">geom_bar</span>(<span class="at">alpha =</span> <span class="fl">0.85</span>) <span class="sc">+</span></span>
 <span id="cb11-20"><a href="#cb11-20" aria-hidden="true" tabindex="-1"></a>  <span class="fu">facet_wrap</span>(<span class="sc">~</span> cycle) <span class="sc">+</span></span>
 <span id="cb11-21"><a href="#cb11-21" aria-hidden="true" tabindex="-1"></a>  <span class="fu">scale_fill_manual</span>(<span class="at">values =</span> <span class="fu">c</span>(<span class="st">"Yes"</span> <span class="ot">=</span> <span class="st">"lightblue2"</span>, <span class="st">"No"</span> <span class="ot">=</span> <span class="st">"#d3e5ff"</span>)) <span class="sc">+</span></span>
@@ -493,7 +505,7 @@ pre > code.sourceCode > span > a:first-child::before { text-decoration: underlin
 <div class="cell">
 <details class="code-fold">
 <summary>Code</summary>
-<div class="sourceCode cell-code" id="cb12"><pre class="sourceCode r code-with-copy"><code class="sourceCode r"><span id="cb12-1"><a href="#cb12-1" aria-hidden="true" tabindex="-1"></a><span class="fu">ggplot</span>(nhanes_clean, <span class="fu">aes</span>(<span class="at">x =</span> sedentary_min_day, <span class="at">y =</span> infert_status, <span class="at">fill =</span> infert_status)) <span class="sc">+</span></span>
+<div class="sourceCode cell-code" id="cb12"><pre class="sourceCode r code-with-copy"><code class="sourceCode r"><span id="cb12-1"><a href="#cb12-1" aria-hidden="true" tabindex="-1"></a><span class="fu">ggplot</span>(nhanes_fertility, <span class="fu">aes</span>(<span class="at">x =</span> sedentary_min_day, <span class="at">y =</span> infert_status, <span class="at">fill =</span> infert_status)) <span class="sc">+</span></span>
 <span id="cb12-2"><a href="#cb12-2" aria-hidden="true" tabindex="-1"></a>  <span class="fu">geom_density_ridges</span>(<span class="at">alpha =</span> <span class="fl">0.7</span>, <span class="at">scale =</span> <span class="fl">1.1</span>, <span class="at">rel_min_height =</span> <span class="fl">0.01</span>) <span class="sc">+</span></span>
 <span id="cb12-3"><a href="#cb12-3" aria-hidden="true" tabindex="-1"></a>  <span class="fu">facet_wrap</span>(<span class="sc">~</span> cycle) <span class="sc">+</span></span>
 <span id="cb12-4"><a href="#cb12-4" aria-hidden="true" tabindex="-1"></a>  <span class="fu">scale_fill_brewer</span>(<span class="at">palette =</span> <span class="st">"Blues"</span>) <span class="sc">+</span></span>
@@ -519,24 +531,11 @@ pre > code.sourceCode > span > a:first-child::before { text-decoration: underlin
 <div class="cell">
 <details class="code-fold">
 <summary>Code</summary>
-<div class="sourceCode cell-code" id="cb13"><pre class="sourceCode r code-with-copy"><code class="sourceCode r"><span id="cb13-1"><a href="#cb13-1" aria-hidden="true" tabindex="-1"></a><span class="co"># Clean + recode infertility variable</span></span>
-<span id="cb13-2"><a href="#cb13-2" aria-hidden="true" tabindex="-1"></a>df <span class="ot">&lt;-</span> nhanes_women <span class="sc">|&gt;</span></span>
-<span id="cb13-3"><a href="#cb13-3" aria-hidden="true" tabindex="-1"></a>  <span class="fu">filter</span>(<span class="sc">!</span><span class="fu">is.na</span>(infertility_12mo),</span>
-<span id="cb13-4"><a href="#cb13-4" aria-hidden="true" tabindex="-1"></a>         <span class="sc">!</span><span class="fu">is.na</span>(sedentary_min_day)) <span class="sc">|&gt;</span></span>
-<span id="cb13-5"><a href="#cb13-5" aria-hidden="true" tabindex="-1"></a>  <span class="fu">mutate</span>(</span>
-<span id="cb13-6"><a href="#cb13-6" aria-hidden="true" tabindex="-1"></a>    <span class="at">infert_status =</span> <span class="fu">case_when</span>(</span>
-<span id="cb13-7"><a href="#cb13-7" aria-hidden="true" tabindex="-1"></a>      infertility_12mo <span class="sc">==</span> <span class="dv">1</span> <span class="sc">~</span> <span class="st">"Yes"</span>,</span>
-<span id="cb13-8"><a href="#cb13-8" aria-hidden="true" tabindex="-1"></a>      infertility_12mo <span class="sc">==</span> <span class="dv">2</span> <span class="sc">~</span> <span class="st">"No"</span>,</span>
-<span id="cb13-9"><a href="#cb13-9" aria-hidden="true" tabindex="-1"></a>      <span class="cn">TRUE</span> <span class="sc">~</span> <span class="cn">NA_character_</span></span>
-<span id="cb13-10"><a href="#cb13-10" aria-hidden="true" tabindex="-1"></a>    )</span>
-<span id="cb13-11"><a href="#cb13-11" aria-hidden="true" tabindex="-1"></a>  ) <span class="sc">|&gt;</span></span>
-<span id="cb13-12"><a href="#cb13-12" aria-hidden="true" tabindex="-1"></a>  <span class="fu">filter</span>(<span class="sc">!</span><span class="fu">is.na</span>(infert_status))</span>
-<span id="cb13-13"><a href="#cb13-13" aria-hidden="true" tabindex="-1"></a></span>
-<span id="cb13-14"><a href="#cb13-14" aria-hidden="true" tabindex="-1"></a><span class="fu">ggplot</span>(df, <span class="fu">aes</span>(<span class="at">x =</span> infert_status, <span class="at">y =</span> sedentary_min_day, <span class="at">fill =</span> infert_status)) <span class="sc">+</span></span>
-<span id="cb13-15"><a href="#cb13-15" aria-hidden="true" tabindex="-1"></a>  <span class="fu">geom_violin</span>(<span class="at">alpha =</span> <span class="fl">0.5</span>) <span class="sc">+</span></span>
-<span id="cb13-16"><a href="#cb13-16" aria-hidden="true" tabindex="-1"></a>  <span class="fu">geom_boxplot</span>(<span class="at">width =</span> <span class="fl">0.15</span>, <span class="at">alpha =</span> <span class="fl">0.8</span>, <span class="at">outlier.alpha =</span> <span class="fl">0.3</span>) <span class="sc">+</span></span>
-<span id="cb13-17"><a href="#cb13-17" aria-hidden="true" tabindex="-1"></a>  <span class="fu">scale_fill_manual</span>(<span class="at">values =</span> <span class="fu">c</span>(<span class="st">"Yes"</span> <span class="ot">=</span> <span class="st">"lightblue2"</span>, <span class="st">"No"</span> <span class="ot">=</span> <span class="st">"#d3e5ff"</span>)) <span class="sc">+</span></span>
-<span id="cb13-18"><a href="#cb13-18" aria-hidden="true" tabindex="-1"></a>  <span class="fu">theme_minimal</span>()</span></code><button title="Copy to Clipboard" class="code-copy-button"><i class="bi"></i></button></pre></div>
+<div class="sourceCode cell-code" id="cb13"><pre class="sourceCode r code-with-copy"><code class="sourceCode r"><span id="cb13-1"><a href="#cb13-1" aria-hidden="true" tabindex="-1"></a><span class="fu">ggplot</span>(nhanes_fertility, <span class="fu">aes</span>(<span class="at">x =</span> infert_status, <span class="at">y =</span> sedentary_min_day, <span class="at">fill =</span> infert_status)) <span class="sc">+</span></span>
+<span id="cb13-2"><a href="#cb13-2" aria-hidden="true" tabindex="-1"></a>  <span class="fu">geom_violin</span>(<span class="at">alpha =</span> <span class="fl">0.5</span>) <span class="sc">+</span></span>
+<span id="cb13-3"><a href="#cb13-3" aria-hidden="true" tabindex="-1"></a>  <span class="fu">geom_boxplot</span>(<span class="at">width =</span> <span class="fl">0.15</span>, <span class="at">alpha =</span> <span class="fl">0.8</span>, <span class="at">outlier.alpha =</span> <span class="fl">0.3</span>) <span class="sc">+</span></span>
+<span id="cb13-4"><a href="#cb13-4" aria-hidden="true" tabindex="-1"></a>  <span class="fu">scale_fill_manual</span>(<span class="at">values =</span> <span class="fu">c</span>(<span class="st">"Yes"</span> <span class="ot">=</span> <span class="st">"lightblue2"</span>, <span class="st">"No"</span> <span class="ot">=</span> <span class="st">"#d3e5ff"</span>)) <span class="sc">+</span></span>
+<span id="cb13-5"><a href="#cb13-5" aria-hidden="true" tabindex="-1"></a>  <span class="fu">theme_minimal</span>()</span></code><button title="Copy to Clipboard" class="code-copy-button"><i class="bi"></i></button></pre></div>
 </details>
 <div class="cell-output-display">
 <div>
@@ -550,7 +549,7 @@ pre > code.sourceCode > span > a:first-child::before { text-decoration: underlin
 <div class="cell">
 <details class="code-fold">
 <summary>Code</summary>
-<div class="sourceCode cell-code" id="cb14"><pre class="sourceCode r code-with-copy"><code class="sourceCode r"><span id="cb14-1"><a href="#cb14-1" aria-hidden="true" tabindex="-1"></a>nhanes_summary <span class="ot">&lt;-</span> nhanes_women <span class="sc">|&gt;</span></span>
+<div class="sourceCode cell-code" id="cb14"><pre class="sourceCode r code-with-copy"><code class="sourceCode r"><span id="cb14-1"><a href="#cb14-1" aria-hidden="true" tabindex="-1"></a>nhanes_summary <span class="ot">&lt;-</span> nhanes_agegroups <span class="sc">|&gt;</span></span>
 <span id="cb14-2"><a href="#cb14-2" aria-hidden="true" tabindex="-1"></a>  <span class="fu">filter</span>(<span class="sc">!</span><span class="fu">is.na</span>(sedentary_min_day)) <span class="sc">|&gt;</span></span>
 <span id="cb14-3"><a href="#cb14-3" aria-hidden="true" tabindex="-1"></a>  <span class="fu">group_by</span>(cycle) <span class="sc">|&gt;</span></span>
 <span id="cb14-4"><a href="#cb14-4" aria-hidden="true" tabindex="-1"></a>  <span class="fu">summarise</span>(</span>
